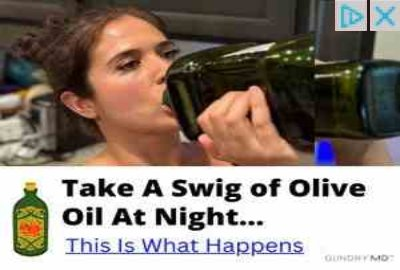
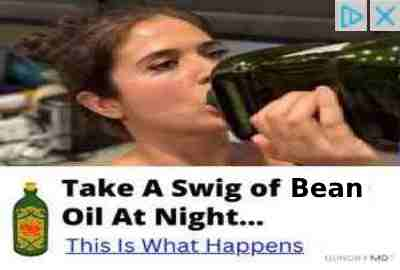
feat: update PollCreate to limit option text length and enhance PollBars layout

diff --git a/src/components/Polls/PollBars.vue b/src/components/Polls/PollBars.vue
@@ -73,8 +73,11 @@ onUnmounted(() => {
         display: flex;
         align-items: center;
         background-color: transparent;
+        justify-content: space-between;
+        .title {
+            margin-left: 6px;
+        }
         > * {
-            position: absolute;
             font-weight: 600;
         }
     }
@@ -95,9 +98,9 @@ onUnmounted(() => {
                 font-weight: 600;
             }
         }
-    }
-    .title {
-        left: 6px;
+        .title {
+            left: 6px;
+        }
     }
     .percentage {
         right: 0px;

diff --git a/src/views/Polls/PollCreate.vue b/src/views/Polls/PollCreate.vue
@@ -279,7 +279,11 @@ const createPoll = async () => {
                 v-for="(option, index) in options"
                 :key="index"
             >
-                <input v-model="option.text" placeholder="Option text" />
+                <input
+                    v-model="option.text"
+                    placeholder="Option text"
+                    maxlength="50"
+                />
                 <button
                     tabindex="-1"
                     @click="removeOption(index)"

diff --git a/src/views/patchNotes.vue b/src/views/patchNotes.vue
@@ -3,6 +3,15 @@
 <template>
     <div class="notes">
         <h1>PATCH NOTES</h1>
+        <h2>3/5/25</h2>
+        <ul>
+            <li>Add a max length of 50 to wager options</li>
+            <li>
+                Fixed bug where multi-line poll options wouldn't be fully filled
+                vertically
+            </li>
+            <li>Changed olive oil ad to be able bean oil</li>
+        </ul>
         <h2>3/3/25</h2>
         <ul>
             <li>Added ability to send Bean Bags</li>

diff --git a/src/App.vue b/src/App.vue
@@ -233,6 +233,7 @@ table {
     margin-bottom: 10px;
     display: flex;
     cursor: pointer;
+    align-items: center;
     .selector {
         height: 20px;
         width: 20px;
